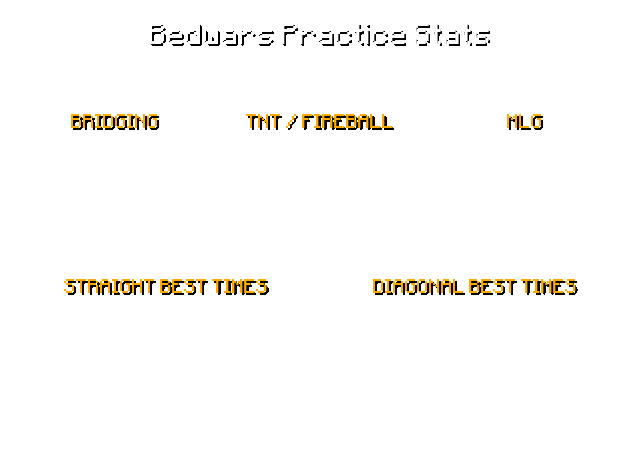
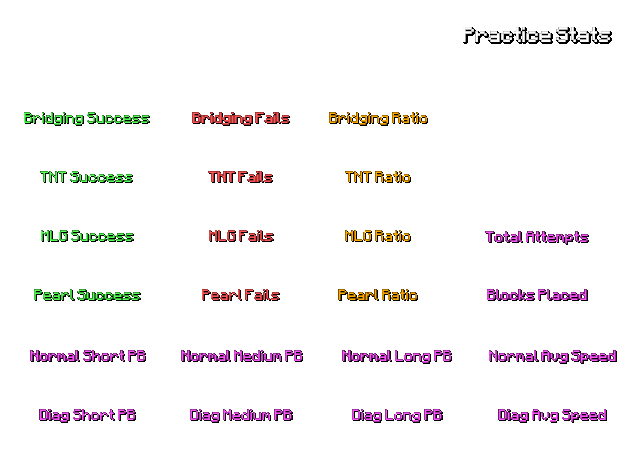
Reworked practice stats + added display name and uuid conversion

diff --git a/bot/render/renderpractice.py b/bot/render/renderpractice.py
@@ -1,10 +1,12 @@
 from io import BytesIO
 from PIL import Image, ImageDraw, ImageFont
 from calc.calcpractice import Practice
-from helper.rendername import render_level_and_name
+from helper.rendername import render_rank, get_rank_prefix
 from helper.custombackground import background
+from helper.renderprogress import render_progress_bar
 
-def renderpractice(name, uuid, hypixel_data):
+
+def renderpractice(name, uuid, hypixel_data, skin_res):
     # Open the image
     image_location = background(path='./assets/practice', uuid=uuid, default='base')
     image = Image.open(image_location)
@@ -14,74 +16,86 @@ def renderpractice(name, uuid, hypixel_data):
     draw = ImageDraw.Draw(image)
 
     # Choose a font and font size
-    font = ImageFont.truetype('./assets/minecraft.ttf', 16)
+    minecraft_16 = ImageFont.truetype('./assets/minecraft.ttf', 16)
+    minecraft_22 = ImageFont.truetype('./assets/minecraft.ttf', 22)
 
     # Define the text colors
-    green = (85, 255, 85)
     white = (255, 255, 255)
+    green = (85, 255, 85)
     black = (0, 0, 0)
     gold = (255, 170, 0)
-    yellow = (255, 255, 85)
     red = (255, 85, 85)
+    light_purple = (255, 85, 255)
 
     # Define the values
     practice = Practice(name, hypixel_data)
     level = practice.level
     player_rank_info = practice.player_rank_info
-    most_played = practice.get_most_played()
+    progress_out_of_10 = practice.progress[2]
 
-    bridging_completed, bridging_failed, bridging_blocks, bridging_ratio = practice.get_bridging_stats()
-    tnt_completed, tnt_failed, tnt_blocks, tnt_ratio = practice.get_tnt_stats()
-    mlg_completed, mlg_failed, mlg_blocks, mlg_ratio = practice.get_mlg_stats()
+    bridging_completed, bridging_failed, bridging_ratio = practice.get_bridging_stats()
+    pearl_completed, pearl_failed, pearl_ratio = practice.get_pearl_stats()
+    tnt_completed, tnt_failed, tnt_ratio = practice.get_tnt_stats()
+    mlg_completed, mlg_failed, mlg_ratio = practice.get_mlg_stats()
     straight_short, straight_medium, straight_long, straight_average = practice.get_straight_times()
     diagonal_short, diagonal_medium, diagonal_long, diagonal_average = practice.get_diagonal_times()
+    blocks_placed = practice.get_blocks_placed()
 
-    totallength = draw.textlength(most_played, font=font) + draw.textlength("Most Played: ", font=font)
-    most_played_x = int((image.width - totallength) / 2)
+    attempts = sum((int(value.replace(',', '')) for value in (bridging_completed, bridging_failed,
+        tnt_completed, tnt_failed, mlg_completed, mlg_failed, pearl_completed, pearl_failed)))
+    attempts = f'{attempts:,}'
+
+    def leng(text, width):
+        return (width - draw.textlength(text, font=ImageFont.truetype('./assets/minecraft.ttf', 16))) / 2
 
     data = (
-        ((26, 137), (bridging_completed, green), "Completed: "),
-        ((26, 163), (bridging_failed, red), "Failed: "),
-        ((26, 189), (bridging_blocks, yellow), "Blocks: "),
-        ((26, 215), (bridging_ratio, yellow), "C/F Ratio: "),
-        ((231, 137), (tnt_completed, green), "Completed: "),
-        ((231, 163), (tnt_failed, red), "Failed: "),
-        ((231, 189), (tnt_blocks, yellow), "Blocks: "),
-        ((231, 215), (tnt_ratio, yellow), "C/F Ratio: "),
-        ((436, 137), (mlg_completed, green), "Completed: "),
-        ((436, 163), (mlg_failed, red), "Failed: "),
-        ((436, 189), (mlg_blocks, yellow), "Blocks: "),
-        ((436, 215), (mlg_ratio, yellow), "C/F Ratio: "),
-        ((26, 302), (straight_short, yellow), "Short: "),
-        ((26, 328), (straight_medium, yellow), "Medium: "),
-        ((26, 354), (straight_long, yellow), "Long: "),
-        ((26, 380), (straight_average, yellow), "Average: "),
-        ((335, 302), (diagonal_short, yellow), "Short: "),
-        ((335, 328), (diagonal_medium, yellow), "Medium: "),
-        ((335, 354), (diagonal_long, yellow), "Long: "),
-        ((335, 380), (diagonal_average, yellow), "Average: "),
-        ((most_played_x, 433), (most_played, gold), "Most Played: ")
+        ((leng(bridging_completed, 140) + 17, 131), bridging_completed, green),
+        ((leng(bridging_failed, 140) + 171, 131), bridging_failed, red),
+        ((leng(bridging_ratio, 107) + 325, 131), bridging_ratio, gold),
+        ((leng(tnt_completed, 140) + 17, 190), tnt_completed, green),
+        ((leng(tnt_failed, 140) + 171, 190), tnt_failed, red),
+        ((leng(tnt_ratio, 107) + 325, 190), tnt_ratio, gold),
+        ((leng(mlg_completed, 140) + 17, 249), mlg_completed, green),
+        ((leng(mlg_failed, 140) + 171, 249), mlg_failed, red),
+        ((leng(mlg_ratio, 107) + 325, 249), mlg_ratio, gold),
+        ((leng(pearl_completed, 140) + 17, 308), pearl_completed, green),
+        ((leng(pearl_failed, 140) + 171, 308), pearl_failed, red),
+        ((leng(pearl_ratio, 107) + 325, 308), pearl_ratio, gold),
+        ((leng(straight_short, 142) + 17, 368), straight_short, light_purple),
+        ((leng(straight_medium, 139) + 173, 368), straight_medium, light_purple),
+        ((leng(straight_long, 141) + 327, 368), straight_long, light_purple),
+        ((leng(straight_average, 140) + 483, 368), straight_average, light_purple),
+        ((leng(diagonal_short, 142) + 17, 426), diagonal_short, light_purple),
+        ((leng(diagonal_medium, 139) + 173, 426), diagonal_medium, light_purple),
+        ((leng(diagonal_long, 141) + 327, 426), diagonal_long, light_purple),
+        ((leng(diagonal_average, 140) + 483, 426), diagonal_average, light_purple),
+        ((leng(attempts, 171) + 452, 249), attempts, light_purple),
+        ((leng(blocks_placed, 171) + 452, 308), blocks_placed, light_purple),
+        ((leng('(Overall)', 171) + 452, 46), '(Overall)', white),
     )
 
     for values in data:
         start_x, start_y = values[0]
-        stat = values[1][0]
-        text = values[2]
+        stat = values[1]
+        draw.text((start_x + 2, start_y + 2), stat, fill=black, font=minecraft_16)
+        draw.text((start_x, start_y), stat, fill=values[2], font=minecraft_16)
 
-        draw.text((start_x + 2, start_y + 2), text, fill=black, font=font)
-        draw.text((start_x, start_y), text, fill=white, font=font)
+    # Render name & progress bar
+    rank_prefix = get_rank_prefix(player_rank_info)
+    totallength = draw.textlength(f'{rank_prefix}{name}', font=minecraft_22)
+    player_x = round((415 - totallength) / 2) + 19
 
-        start_x += draw.textlength(text, font=font)
+    render_rank(name, position_x=player_x, position_y=30, rank_prefix=rank_prefix, player_rank_info=player_rank_info, draw=draw, fontsize=22)
+    render_progress_bar(box_positions=(415, 19), position_y=61, level=level, progress_out_of_10=progress_out_of_10, image=image)
 
-        draw.text((start_x + 2, start_y + 2), stat, fill=black, font=font)
-        draw.text((start_x, start_y), stat, fill=values[1][1], font=font)
+    # Render Skin
+    skin = Image.open(BytesIO(skin_res))
+    image.paste(skin, (466, 69), skin)
 
-    # Render the titles & name
-    title_image = Image.open('./assets/practice/overlay.png')
-    image.paste(title_image, (0, 0), title_image)
-
-    player_y = 54
-    render_level_and_name(name, level, player_rank_info, image=image, box_positions=(113, 415), position_y=player_y, fontsize=18)
+    # Paste overlay
+    overlay_image = Image.open(f'./assets/practice/overlay.png')
+    overlay_image = overlay_image.convert("RGBA")
+    image.paste(overlay_image, (0, 0), overlay_image)
 
     # Return the image
     image_bytes = BytesIO()

diff --git a/bot/calc/calcpractice.py b/bot/calc/calcpractice.py
@@ -1,4 +1,4 @@
-from calc.calctools import get_player_rank_info
+from calc.calctools import get_player_rank_info, get_progress
 
 class Practice:
     def __init__(self, name: str, hypixel_data: dict) -> None:
@@ -9,51 +9,51 @@ class Practice:
 
         self.level = self.hypixel_data.get("achievements", {}).get("bedwars_level", 0)
         self.player_rank_info = get_player_rank_info(self.hypixel_data)
+        self.progress = get_progress(self.hypixel_data.get('stats', {}).get('Bedwars', {}))
 
     def get_bridging_stats(self):
         bridging_completed = self.practice_stats.get('bridging', {}).get('successful_attempts', 0)
         bridging_failed = self.practice_stats.get('bridging', {}).get('failed_attempts', 0)
-        bridging_blocks = self.practice_stats.get('bridging', {}).get('blocks_placed', 0)
         bridging_ratio = round(0 if bridging_completed == 0 else bridging_completed / bridging_failed if bridging_failed != 0 else bridging_completed, 2)
-        return f'{bridging_completed:,}', f'{bridging_failed:,}', f'{bridging_blocks:,}', f'{bridging_ratio:,}'
+        return f'{bridging_completed:,}', f'{bridging_failed:,}', f'{bridging_ratio:,}'
 
     def get_tnt_stats(self):
         tnt_completed = self.practice_stats.get('fireball_jumping', {}).get('successful_attempts', 0)
         tnt_failed = self.practice_stats.get('fireball_jumping', {}).get('failed_attempts', 0)
-        tnt_blocks = self.practice_stats.get('fireball_jumping', {}).get('blocks_placed', 0)
         tnt_ratio = round(0 if tnt_completed == 0 else tnt_completed / tnt_failed if tnt_failed != 0 else tnt_completed, 2)
-        return f'{tnt_completed:,}', f'{tnt_failed:,}', f'{tnt_blocks:,}', f'{tnt_ratio:,}'
+        return f'{tnt_completed:,}', f'{tnt_failed:,}', f'{tnt_ratio:,}'
 
     def get_mlg_stats(self):
         mlg_completed = self.practice_stats.get('mlg', {}).get('successful_attempts', 0)
         mlg_failed = self.practice_stats.get('mlg', {}).get('failed_attempts', 0)
-        mlg_blocks = self.practice_stats.get('mlg', {}).get('blocks_placed', 0)
         mlg_ratio = round(0 if mlg_completed == 0 else mlg_completed / mlg_failed if mlg_failed != 0 else mlg_completed, 2)
-        return f'{mlg_completed:,}', f'{mlg_failed:,}', f'{mlg_blocks:,}', f'{mlg_ratio:,}'
+        return f'{mlg_completed:,}', f'{mlg_failed:,}', f'{mlg_ratio:,}'
+
+    def get_pearl_stats(self):
+        pearl_completed = self.practice_stats.get('pearl_clutching', {}).get('successful_attempts', 0)
+        pearl_failed = self.practice_stats.get('pearl_clutching', {}).get('failed_attempts', 0)
+        pearl_ratio = round(0 if pearl_completed == 0 else pearl_completed / pearl_failed if pearl_failed != 0 else pearl_completed, 2)
+        return f'{pearl_completed:,}', f'{pearl_failed:,}', f'{pearl_ratio:,}'
+
+    def get_blocks_placed(self):
+        bridging_blocks = self.practice_stats.get('bridging', {}).get('blocks_placed', 0)
+        tnt_blocks = self.practice_stats.get('fireball_jumping', {}).get('blocks_placed', 0)
+        mlg_blocks = self.practice_stats.get('mlg', {}).get('blocks_placed', 0)
+        blocks_placed = bridging_blocks + tnt_blocks + mlg_blocks
+        return f'{blocks_placed:,}'
 
     def get_straight_times(self):
-        short = round(self.practice_stats.get('records', {}).get('bridging_distance_30:elevation_NONE:angle_STRAIGHT:', 0) / 1000, 2)
-        medium = round(self.practice_stats.get('records', {}).get('bridging_distance_50:elevation_NONE:angle_STRAIGHT:', 0) / 1000, 2)
-        long = round(self.practice_stats.get('records', {}).get('bridging_distance_100:elevation_NONE:angle_STRAIGHT:', 0) / 1000, 2)
-        average = round((short + medium + long) / 3, 2)
-        return f'{short} seconds', f'{medium} seconds', f'{long} seconds', f'{average} seconds'
+        short = self.practice_stats.get('records', {}).get('bridging_distance_30:elevation_NONE:angle_STRAIGHT:', 0) / 1000
+        medium = self.practice_stats.get('records', {}).get('bridging_distance_50:elevation_NONE:angle_STRAIGHT:', 0) / 1000
+        long = self.practice_stats.get('records', {}).get('bridging_distance_100:elevation_NONE:angle_STRAIGHT:', 0) / 1000
+        average = round(180 / (short + medium + long), 2)
+
+        return f'{round(short, 2):,}s', f'{round(medium, 2):,}s', f'{round(long, 2):,}s', f'{average:,}m/s'
 
     def get_diagonal_times(self):
-        short = round(self.practice_stats.get('records', {}).get('bridging_distance_30:elevation_NONE:angle_DIAGONAL:', 0) / 1000, 2)
-        medium = round(self.practice_stats.get('records', {}).get('bridging_distance_50:elevation_NONE:angle_DIAGONAL:', 0) / 1000, 2)
-        long = round(self.practice_stats.get('records', {}).get('bridging_distance_100:elevation_NONE:angle_DIAGONAL:', 0) / 1000, 2)
-        average = round((short + medium + long) / 3, 2)
-        return f'{short} seconds', f'{medium} seconds', f'{long} seconds', f'{average} seconds'
+        short = self.practice_stats.get('records', {}).get('bridging_distance_30:elevation_NONE:angle_DIAGONAL:', 0) / 1000
+        medium = self.practice_stats.get('records', {}).get('bridging_distance_50:elevation_NONE:angle_DIAGONAL:', 0) / 1000
+        long = self.practice_stats.get('records', {}).get('bridging_distance_100:elevation_NONE:angle_DIAGONAL:', 0) / 1000
+        average = round(180 / (short + medium + long), 2)
 
-    def get_most_played(self):
-        total_bridging = self.practice_stats.get('bridging', {}).get('successful_attempts', 0) + self.practice_stats.get('bridging', {}).get('failed_attempts', 0)
-        total_tnt = self.practice_stats.get('fireball_jumping', {}).get('successful_attempts', 0) + self.practice_stats.get('fireball_jumping', {}).get('failed_attempts', 0)
-        total_mlg = self.practice_stats.get('mlg', {}).get('successful_attempts', 0) + self.practice_stats.get('mlg', {}).get('failed_attempts', 0)
-        findgreatest = {
-            'BRIDGING': total_bridging,
-            'TNT / FIREBALL': total_tnt,
-            'MLG':  total_mlg
-        }
-        if max(findgreatest.values()) == 0:
-            return "Undefined"
-        return str(max(findgreatest, key=findgreatest.get))
+        return f'{round(short, 2):,}s', f'{round(medium, 2):,}s', f'{round(long, 2):,}s', f'{average:,}m/s'

diff --git a/bot/cogs/commands/who.py b/bot/cogs/commands/who.py
@@ -1,0 +1,31 @@
+import discord
+from discord import app_commands
+from discord.ext import commands
+
+from mcuuid import MCUUID
+
+
+class Who(commands.Cog):
+    def __init__(self, client):
+        self.client = client
+
+    @app_commands.command(name = "who", description = "Convert the name of uuid of a player")
+    @app_commands.describe(username_or_uuid='The player whos username / uuid you want to view')
+    async def who(self, interaction: discord.Interaction, username_or_uuid: str=None):
+        if len(username_or_uuid) < 16:
+            try:
+                name = MCUUID(name=username_or_uuid).name
+                uuid = MCUUID(name=username_or_uuid).uuid
+                await interaction.response.send_message(f'UUID for **{name}** -> `{uuid}`', ephemeral=True)
+            except KeyError:
+                await interaction.response.send_message('Invalid name or uuid!', ephemeral=True)
+            return
+
+        name = MCUUID(uuid=username_or_uuid).name
+        uuid = MCUUID(uuid=username_or_uuid).uuid
+        if name: await interaction.response.send_message(f'Name for **{uuid}** -> `{name}`', ephemeral=True)
+        else: await interaction.response.send_message('Invalid name or uuid!', ephemeral=True)
+        return
+
+async def setup(client: commands.Bot) -> None:
+    await client.add_cog(Who(client))

diff --git a/bot/cogs/commands/displayname.py b/bot/cogs/commands/displayname.py
@@ -1,0 +1,26 @@
+import discord
+from discord import app_commands
+from discord.ext import commands
+
+from render.renderdisplayname import renderdisplayname
+from functions import check_subscription, username_autocompletion, authenticate_user, get_hypixel_data
+
+class DisplayName(commands.Cog):
+    def __init__(self, client):
+        self.client = client
+
+    @app_commands.command(name = "displayname", description = "Render the bedwars display name of any player")
+    @app_commands.checks.dynamic_cooldown(check_subscription)
+    @app_commands.autocomplete(username=username_autocompletion)
+    @app_commands.describe(username='The player whos display name to generate')
+    async def displayname(self, interaction: discord.Interaction, username: str=None):
+        try: name, uuid = await authenticate_user(username, interaction)
+        except TypeError: return
+
+        await interaction.response.defer()
+        hypixel_data = get_hypixel_data(uuid)
+        rendered = renderdisplayname(name, hypixel_data)
+        await interaction.followup.send(content=None, files=[discord.File(rendered, filename="displayname.png")])
+
+async def setup(client: commands.Bot) -> None:
+    await client.add_cog(DisplayName(client))

diff --git a/bot/render/renderdisplayname.py b/bot/render/renderdisplayname.py
@@ -1,0 +1,26 @@
+from io import BytesIO
+from PIL import Image, ImageFont, ImageDraw
+from calc.calctools import get_player_rank_info
+from helper.rendername import get_rank_prefix, render_level_and_name
+
+def renderdisplayname(name, hypixel_data):
+    level = hypixel_data.get('player', {}).get('achievements', {}).get('bedwars_level', 0)
+    player_rank_info = get_player_rank_info(hypixel_data=hypixel_data.get('player', {}))
+    rank_prefix = get_rank_prefix(player_rank_info)
+    
+    # Open the base image
+    sample_image = Image.new('RGBA', (0, 0), (0, 0, 0, 0))
+    draw = ImageDraw.Draw(sample_image)
+    font = ImageFont.truetype('./assets/minecraft.ttf', 20)
+
+    image_width = int(draw.textlength(f'[{level}] {rank_prefix} {name}', font=font)) + 18
+    actual_image = Image.new('RGBA', (image_width, 20), (0, 0, 0, 0))
+
+    render_level_and_name(name, level, player_rank_info, image=actual_image, box_positions=(0, image_width-6), position_y=0, fontsize=20)
+
+    # Return the result
+    image_bytes = BytesIO()
+    actual_image.save(image_bytes, format='PNG')
+    image_bytes.seek(0)
+
+    return image_bytes

diff --git a/bot/cogs/commands/practice.py b/bot/cogs/commands/practice.py
@@ -7,7 +7,8 @@ from functions import (username_autocompletion,
                        check_subscription,
                        get_hypixel_data,
                        update_command_stats,
-                       authenticate_user)
+                       authenticate_user,
+                       skin_session)
 
 
 class Practice(commands.Cog):
@@ -27,7 +28,8 @@ class Practice(commands.Cog):
         await interaction.response.send_message(self.GENERATING_MESSAGE)
 
         hypixel_data = get_hypixel_data(uuid)
-        rendered = renderpractice(name, uuid, hypixel_data)
+        skin_res = skin_session.get(f'https://visage.surgeplay.com/bust/144/{uuid}', timeout=10)
+        rendered = renderpractice(name, uuid, hypixel_data, skin_res.content)
         await interaction.edit_original_response(content=None, attachments=[discord.File(rendered, filename='practice.png')])
 
         update_command_stats(interaction.user.id, 'practice')

diff --git a/bot/main.py b/bot/main.py
@@ -1,4 +1,5 @@
 import os
+import json
 import traceback
 
 import discord
@@ -14,12 +15,11 @@ class MyClient(commands.Bot):
         super().__init__(intents=intents, command_prefix=commands.when_mentioned_or('$'))
 
     async def setup_hook(self):
-        cogs_list = ['sessions', 'linking', 'projection', 'shop', 'mostplayed', 'total',
-                     'average', 'misc', 'resources', 'skin', 'practice', 'milestones',
-                     'cosmetics', 'hotbar', 'compare']
-        for ext in cogs_list:
-            await client.load_extension(f'cogs.commands.{ext}')
-        #await self.tree.sync()
+        with open('./config.json', 'r') as datafile:
+            cogs = json.load(datafile)['enabled_cogs']
+        for ext in cogs:
+            await client.load_extension(f'cogs.{ext}')
+        await self.tree.sync()
 
 intents = discord.Intents.all()
 client = MyClient(intents=intents)
